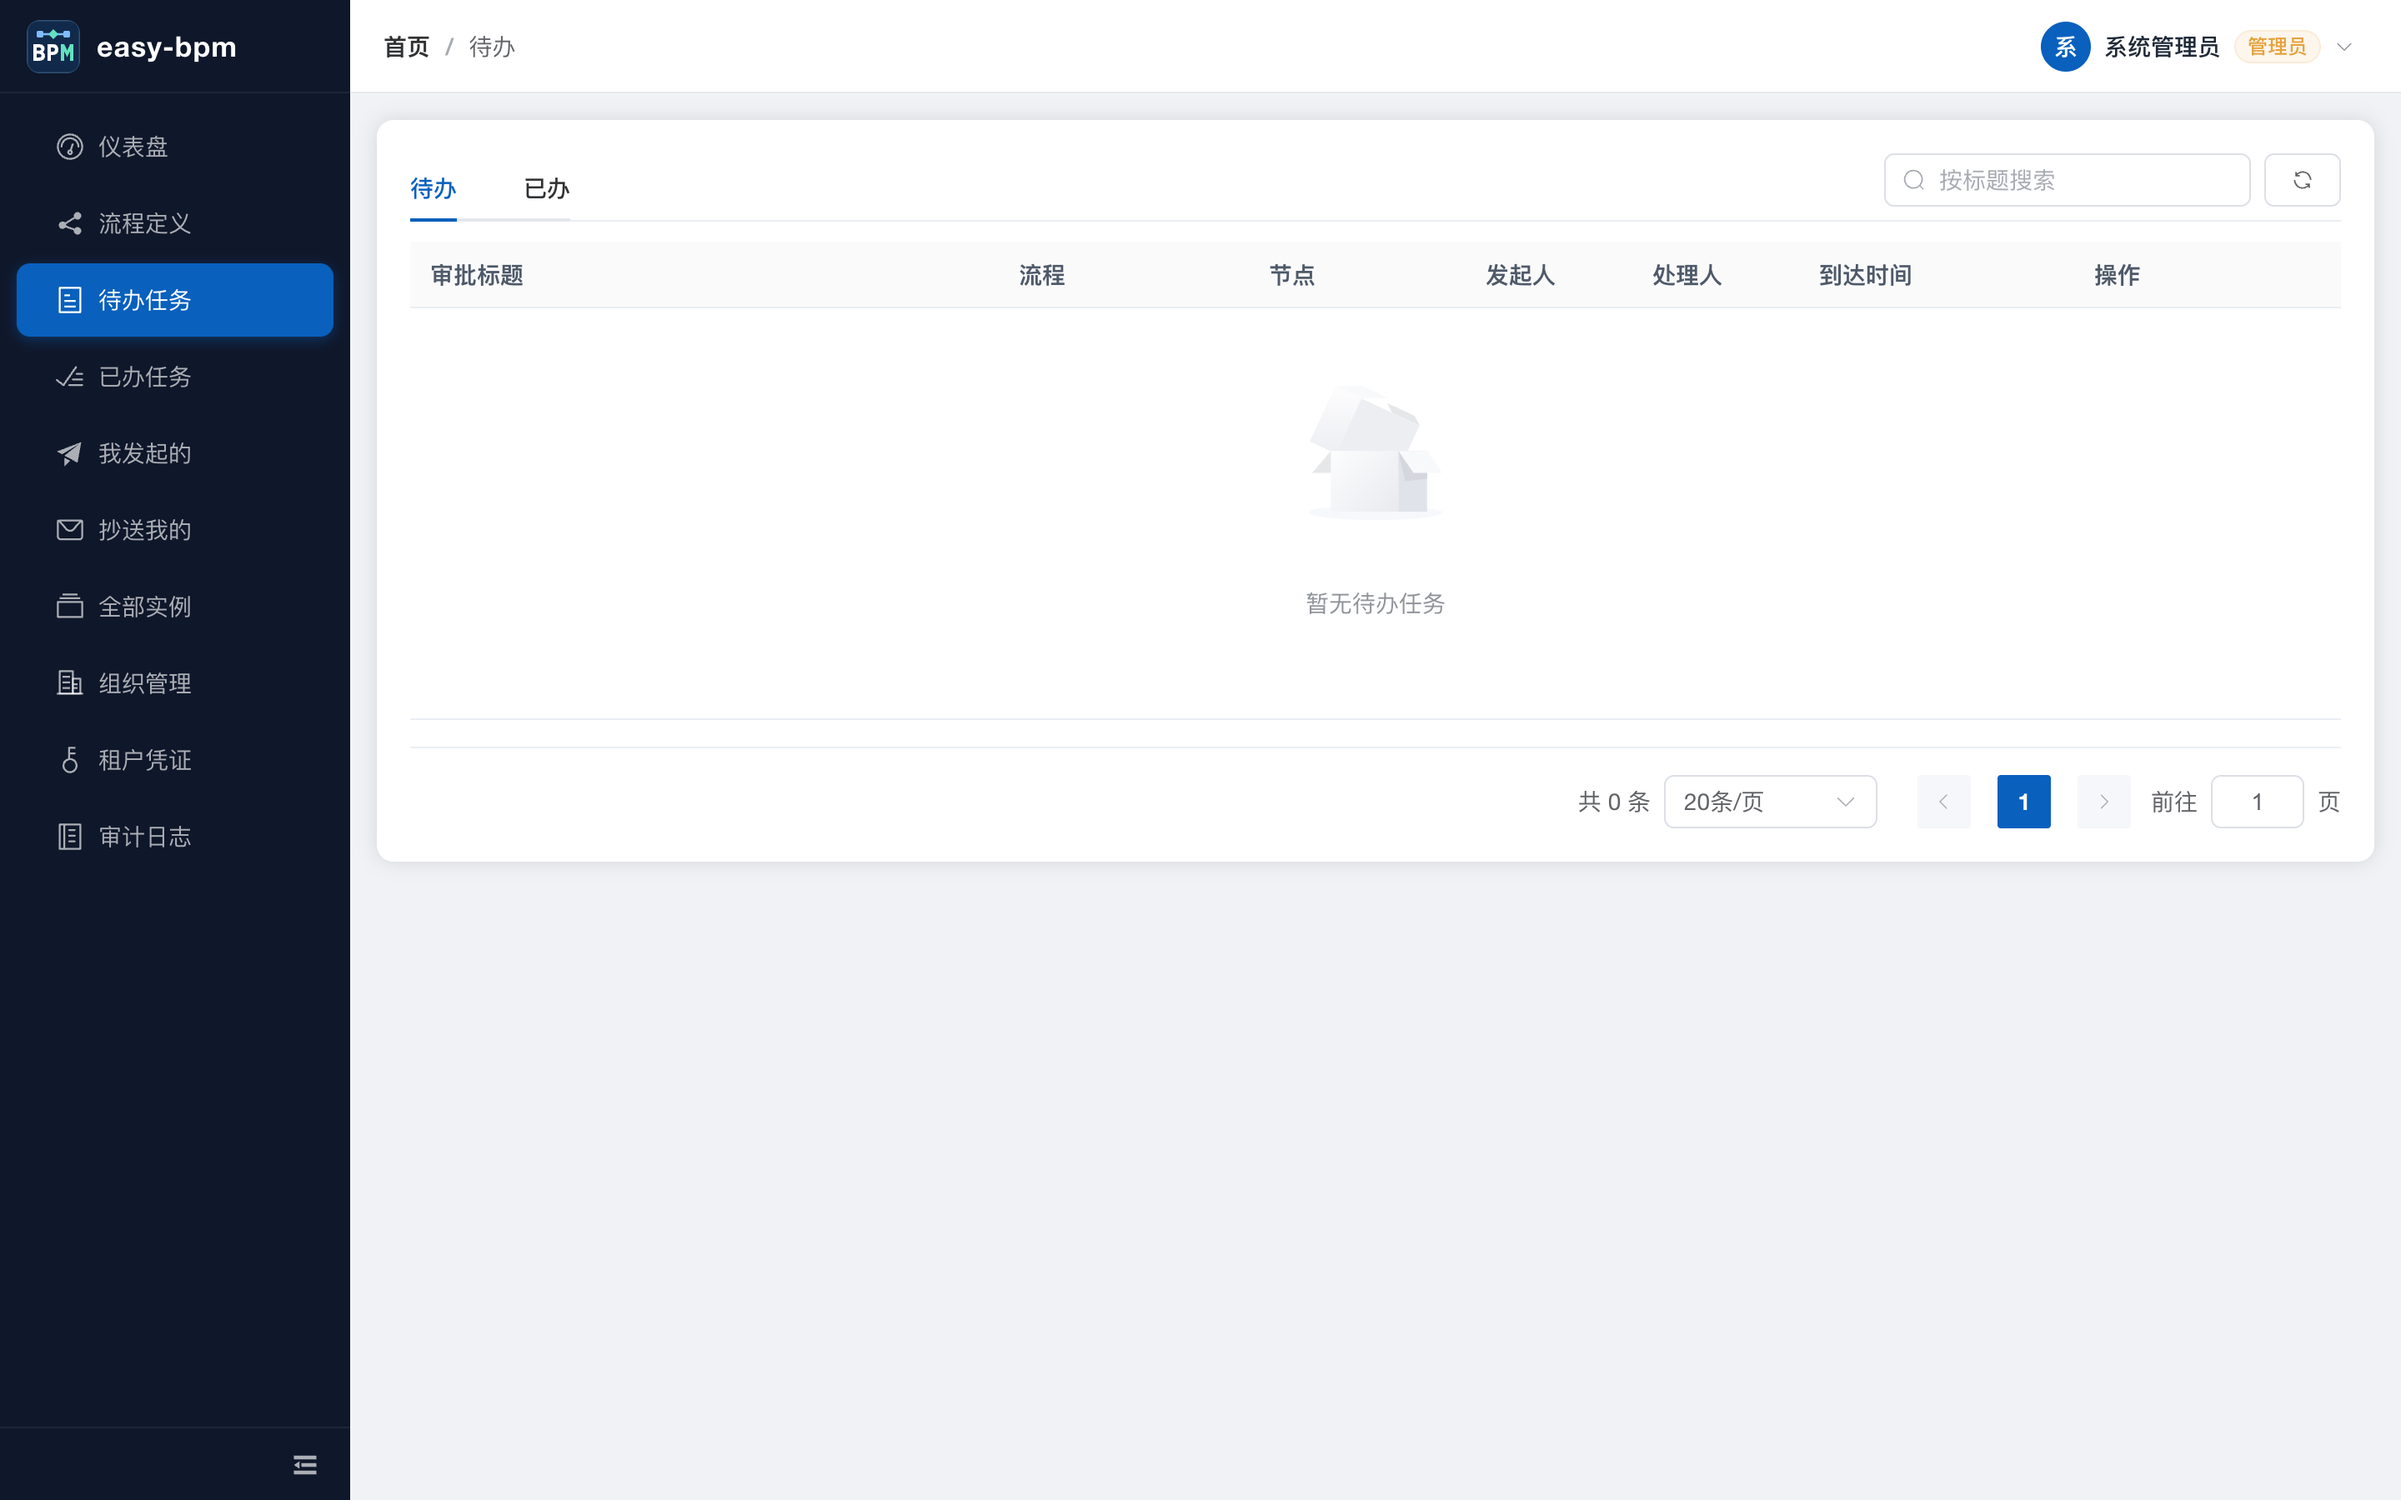
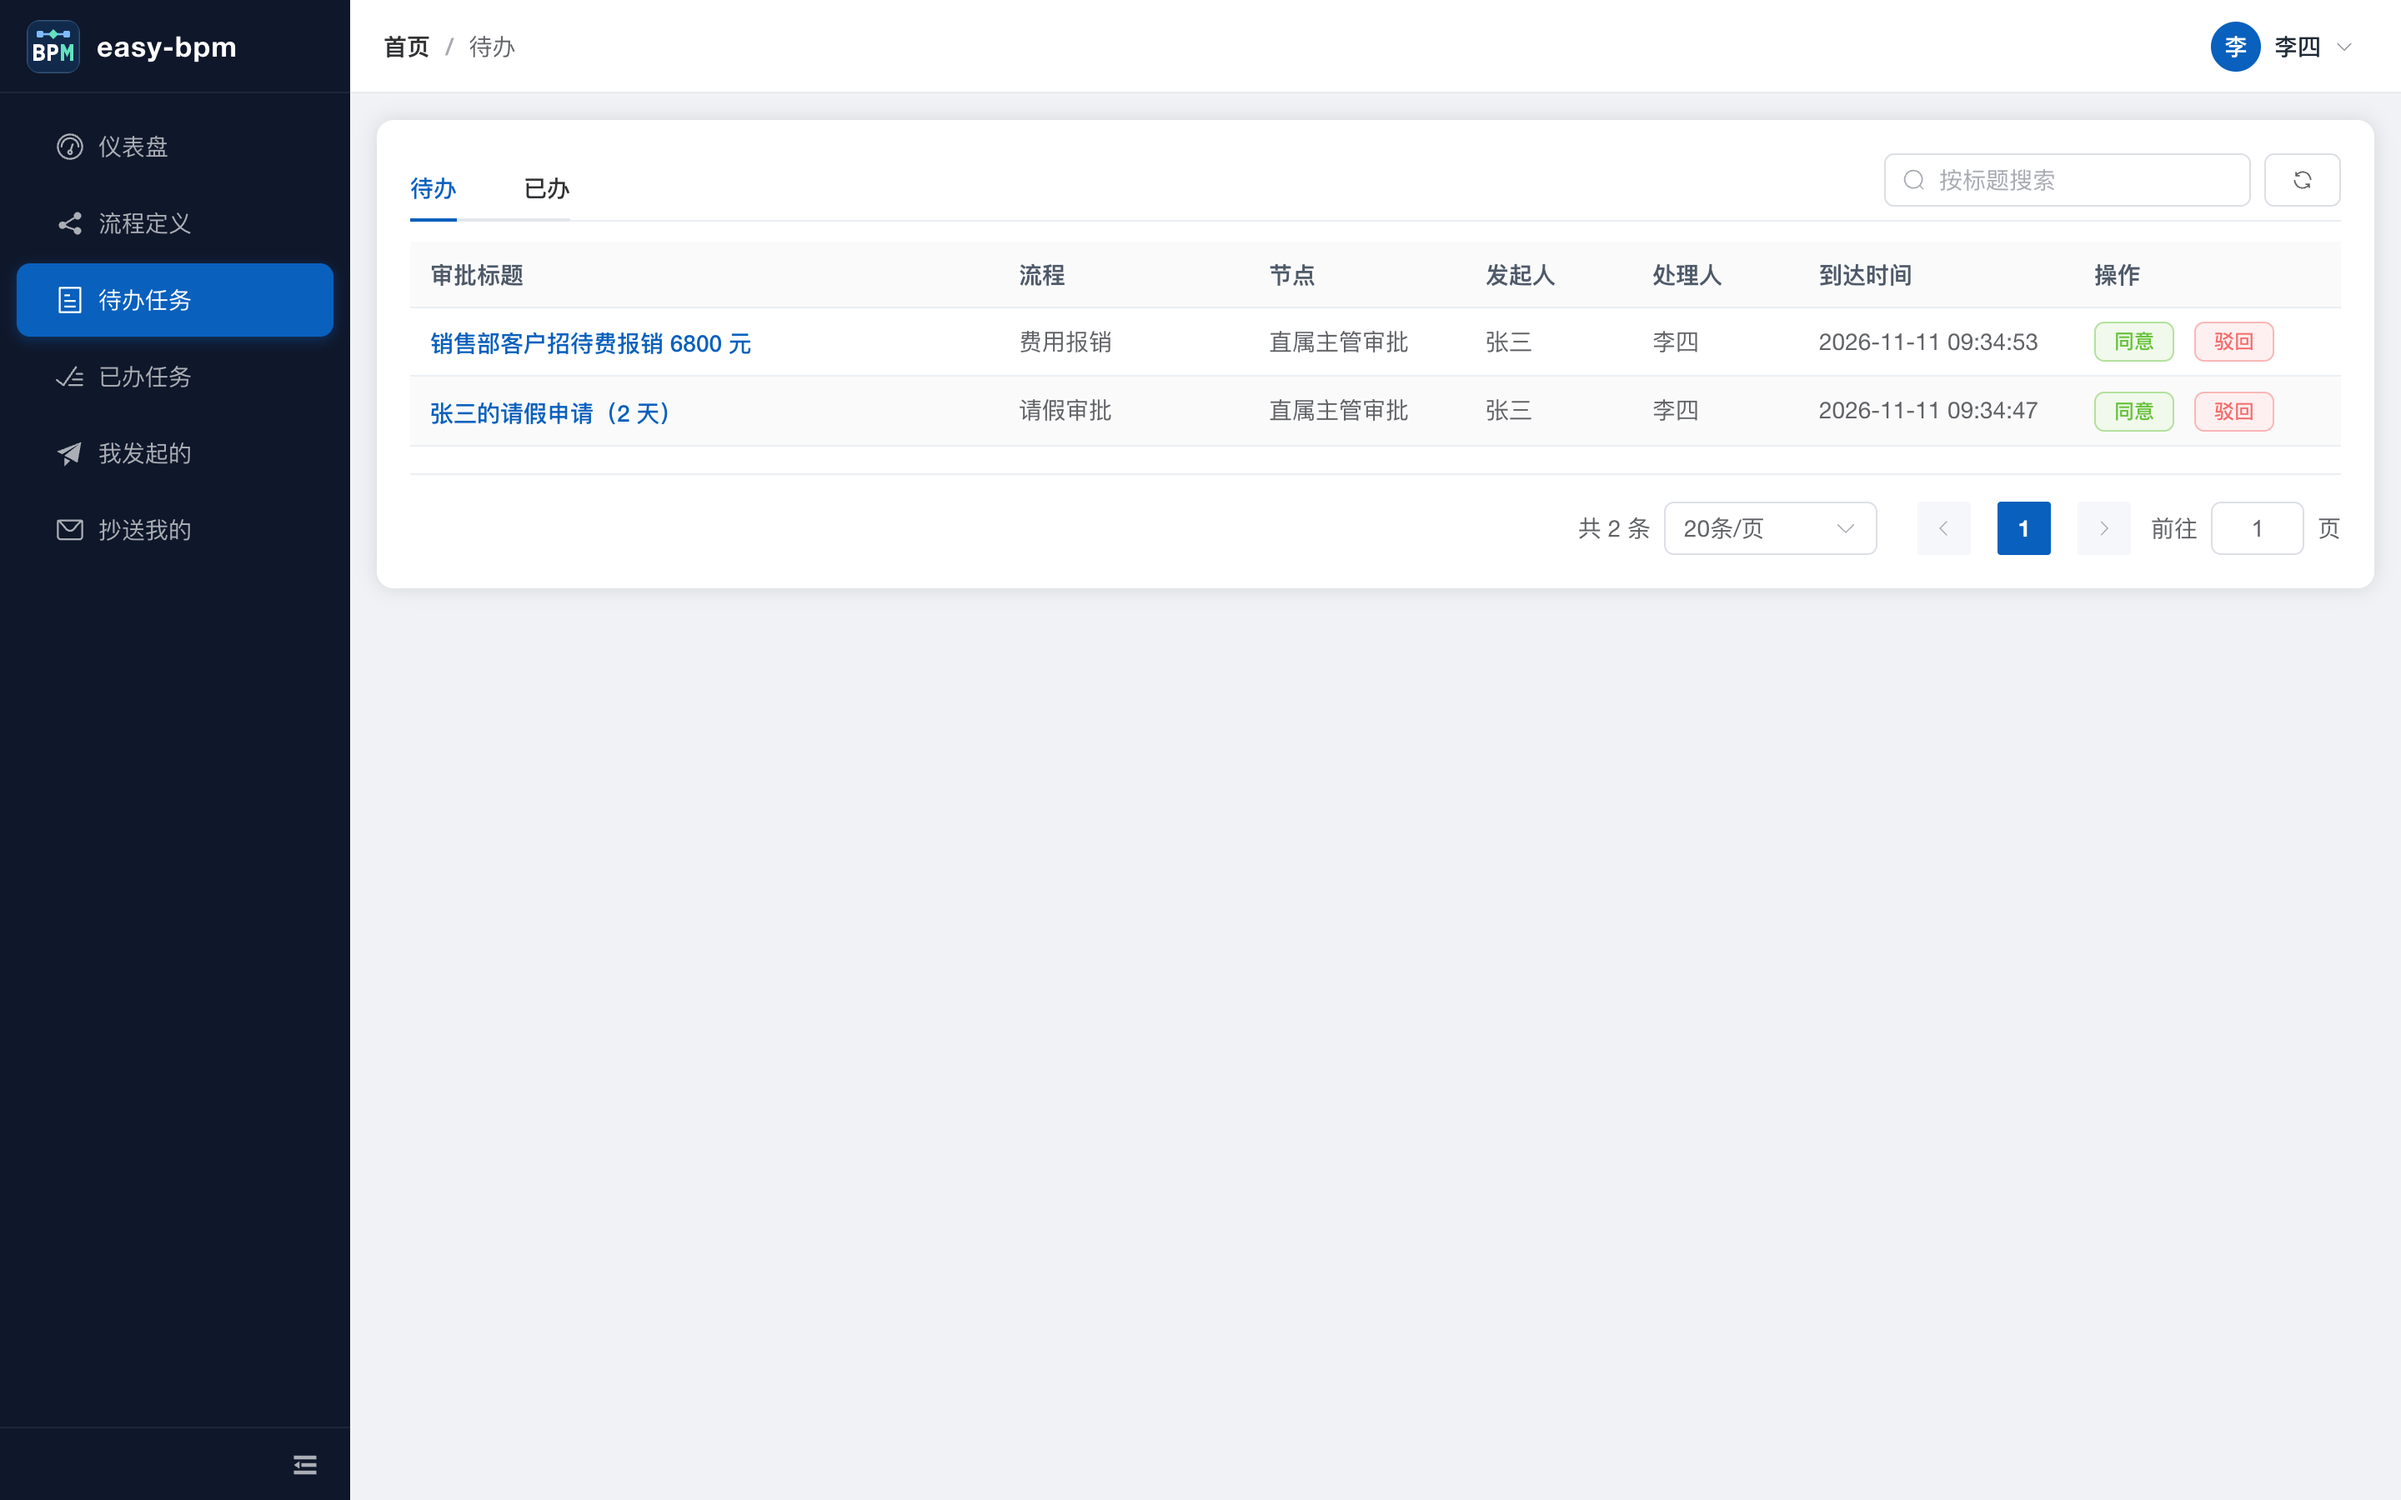
fix(engine): 抄送节点在发起阶段执行时 NPE + 已办幽灵行
- CcDelegate 按引擎实例 ID 反查投影行，而实例投影在 startProcessInstance 之后才插入：
  抄送节点位于发起链路上（如 发起→抄送→审批）时投影尚不存在，selectOne 返回 null 直接 NPE，
  发起接口报 50000。改为三级取值：流程变量 __instance_id → 按引擎 ID 反查 → 引擎实例 ID
  （首次发起对外 ID 与引擎 ID 相同，兜底正确）
- 重新提交（TO_START 重提）会更换引擎实例 ID，启动前显式写入 __instance_id，
  保证重提后的抄送记录仍归属原对外实例
- WorkbenchQueryService.done 过滤实例投影已删除的历史任务，避免出现空标题幽灵行，
  并修正对应的分页总数
- flow: resolveVariables 对 command.ccUsers() 为 null 做空判断（只有存在抄送节点才走该分支，
  此前未暴露）
- docs/console.md：凭证启用语义、审计范围；截图更新为真实数据（待办 2 条、已办 3 条、抄送 1 条未读）

diff --git a/server/src/main/java/com/easybpm/engine/CcDelegate.java b/server/src/main/java/com/easybpm/engine/CcDelegate.java
@@ -19,6 +19,12 @@ import java.util.Map;
 @Component("ccDelegate")
 public class CcDelegate implements JavaDelegate {
 
+    /**
+     * 对外实例 ID 的流程变量名。重新提交（TO_START 驳回后重提）会在启动前写入，
+     * 因为此时投影行的 engineInstanceId 还指向旧引擎实例，无法按引擎 ID 反查。
+     */
+    public static final String INSTANCE_ID_VAR = "__instance_id";
+
     private final BpmCcMapper ccMapper;
     private final BpmTaskRecordMapper recordMapper;
     private final BpmInstanceMapper instanceMapper;
@@ -45,10 +51,7 @@ public class CcDelegate implements JavaDelegate {
         Map<String, String> names = orgService.namesOf(userIds);
 
         TenantContext.callAs(tenantId, () -> {
-            // 抄送记录归属对外实例 ID（TO_START 重提后引擎实例 ID 会更换）
-            String externalId = instanceMapper.selectOne(new LambdaQueryWrapper<BpmInstance>()
-                            .eq(BpmInstance::getEngineInstanceId, execution.getProcessInstanceId()))
-                    .getInstanceId();
+            String externalId = resolveInstanceId(execution);
             LocalDateTime now = LocalDateTime.now();
             for (String userId : userIds) {
                 BpmCc cc = new BpmCc();
@@ -75,5 +78,22 @@ public class CcDelegate implements JavaDelegate {
             recordMapper.insert(record);
             return null;
         });
+    }
+
+    /**
+     * 解析抄送记录应归属的对外实例 ID。
+     *
+     * <p>三级取值：① 流程变量（重提场景显式写入）→ ② 按引擎实例 ID 反查投影 →
+     * ③ 引擎实例 ID 本身。③ 覆盖「发起时抄送节点先于实例投影落库执行」的场景，
+     * 首次发起对外 ID 与引擎 ID 相同，取值正确。
+     */
+    private String resolveInstanceId(DelegateExecution execution) {
+        Object fromVariable = execution.getVariable(INSTANCE_ID_VAR);
+        if (fromVariable != null && !String.valueOf(fromVariable).isBlank()) {
+            return String.valueOf(fromVariable);
+        }
+        BpmInstance projection = instanceMapper.selectOne(new LambdaQueryWrapper<BpmInstance>()
+                .eq(BpmInstance::getEngineInstanceId, execution.getProcessInstanceId()));
+        return projection != null ? projection.getInstanceId() : execution.getProcessInstanceId();
     }
 }

diff --git a/server/src/main/java/com/easybpm/engine/WorkbenchQueryService.java b/server/src/main/java/com/easybpm/engine/WorkbenchQueryService.java
@@ -117,6 +117,17 @@ public class WorkbenchQueryService {
 
         Map<String, BpmInstance> instances = instanceMap(tasks.stream()
                 .map(HistoricTaskInstance::getProcessInstanceId).toList());
+        // 实例投影已被删除的历史任务（如测试数据清理后的残留）不展示，避免出现空标题幽灵行
+        List<HistoricTaskInstance> visible = tasks.stream()
+                .filter(task -> instances.containsKey(task.getProcessInstanceId()))
+                .toList();
+        if (visible.size() < tasks.size()) {
+            total = Math.max(total - countOrphanInstances(query), visible.size());
+            tasks = visible;
+            if (tasks.isEmpty()) {
+                return PageResult.of(List.of(), total, page, size);
+            }
+        }
         Map<String, String> names = namesOf(tasks.stream().map(HistoricTaskInstance::getAssignee).toList());
         Map<String, String> actions = actionsOf(tasks.stream().map(HistoricTaskInstance::getId).toList());
 
@@ -348,6 +359,22 @@ public class WorkbenchQueryService {
                 .filter(id -> id != null && !id.isBlank())
                 .distinct()
                 .toList();
+    }
+
+    /**
+     * 统计给定查询下「实例投影已不存在」的历史任务所涉实例数（去重）。
+     * 仅在该页命中幽灵任务时调用，用于修正分页总数。
+     */
+    private long countOrphanInstances(HistoricTaskInstanceQuery query) {
+        List<String> ids = query.list().stream()
+                .map(HistoricTaskInstance::getProcessInstanceId)
+                .distinct()
+                .toList();
+        if (ids.isEmpty()) {
+            return 0;
+        }
+        Map<String, BpmInstance> map = instanceMap(ids);
+        return ids.stream().filter(id -> !map.containsKey(id)).count();
     }
 
     private int offset(int page, int size) {

diff --git a/server/src/main/java/com/easybpm/engine/FlowEngineService.java b/server/src/main/java/com/easybpm/engine/FlowEngineService.java
@@ -200,6 +200,8 @@ public class FlowEngineService {
         String title = projection.getTitle();
         ResolvedFlow resolved = resolveVariables(definition, schema, command, title);
         Map<String, Object> variables = resolved.variables();
+        // 重提会更换引擎实例 ID，抄送节点需据此回写对外 ID
+        variables.put(CcDelegate.INSTANCE_ID_VAR, projection.getInstanceId());
 
         ProcessInstance newProcess;
         try {
@@ -431,7 +433,10 @@ public class FlowEngineService {
                 variables.put("decision_" + node.id(), "PENDING");
             } else if (node.type() == NodeType.CC) {
                 List<String> ccUsers = new ArrayList<>(node.props().ccUsers());
-                ccUsers.addAll(command.ccUsers());
+                // 发起请求可能不带 ccUsers（仅可选补充），null 时只看节点自身配置
+                if (command.ccUsers() != null) {
+                    ccUsers.addAll(command.ccUsers());
+                }
                 variables.put("cc_" + node.id(), new ArrayList<>(new LinkedHashSet<>(ccUsers)));
             }
         }

diff --git a/docs/console.md b/docs/console.md
@@ -56,7 +56,7 @@
 
 ![待办任务](images/05-todo.png)
 
-- 只展示"当前轮到我一票"的任务；支持流程/标题筛选，行点击直达审批详情（上图为无待办时的空态）。
+- 只展示“当前轮到我一票”的任务；支持流程/标题筛选，行点击直达审批详情。
 - 快捷同意/驳回按钮直接内联处理，避免多跳一层；弹出框可填写审批意见。
 
 ### 4.2 已办
@@ -76,7 +76,7 @@
 
 ![抄送我的](images/08-cc.png)
 
-- 抄送节点执行后自动进入此页。未读行橙色底纹 + 标题加粗 + 红点，"未读" Tab 带未读数角标（上图为无抄送时的空态）。
+- 抄送节点执行后自动进入此页。未读行橙色底纹 + 标题加粗 + 红点，“未读” Tab 带未读数角标。
 - 标记已读仅作用于本人（幂等），未读数随 `counts.ccUnread` 递减；接入方也可用 OpenAPI `/open/v1/cc` 在自己的消息中心实现红点。
 
 ---
